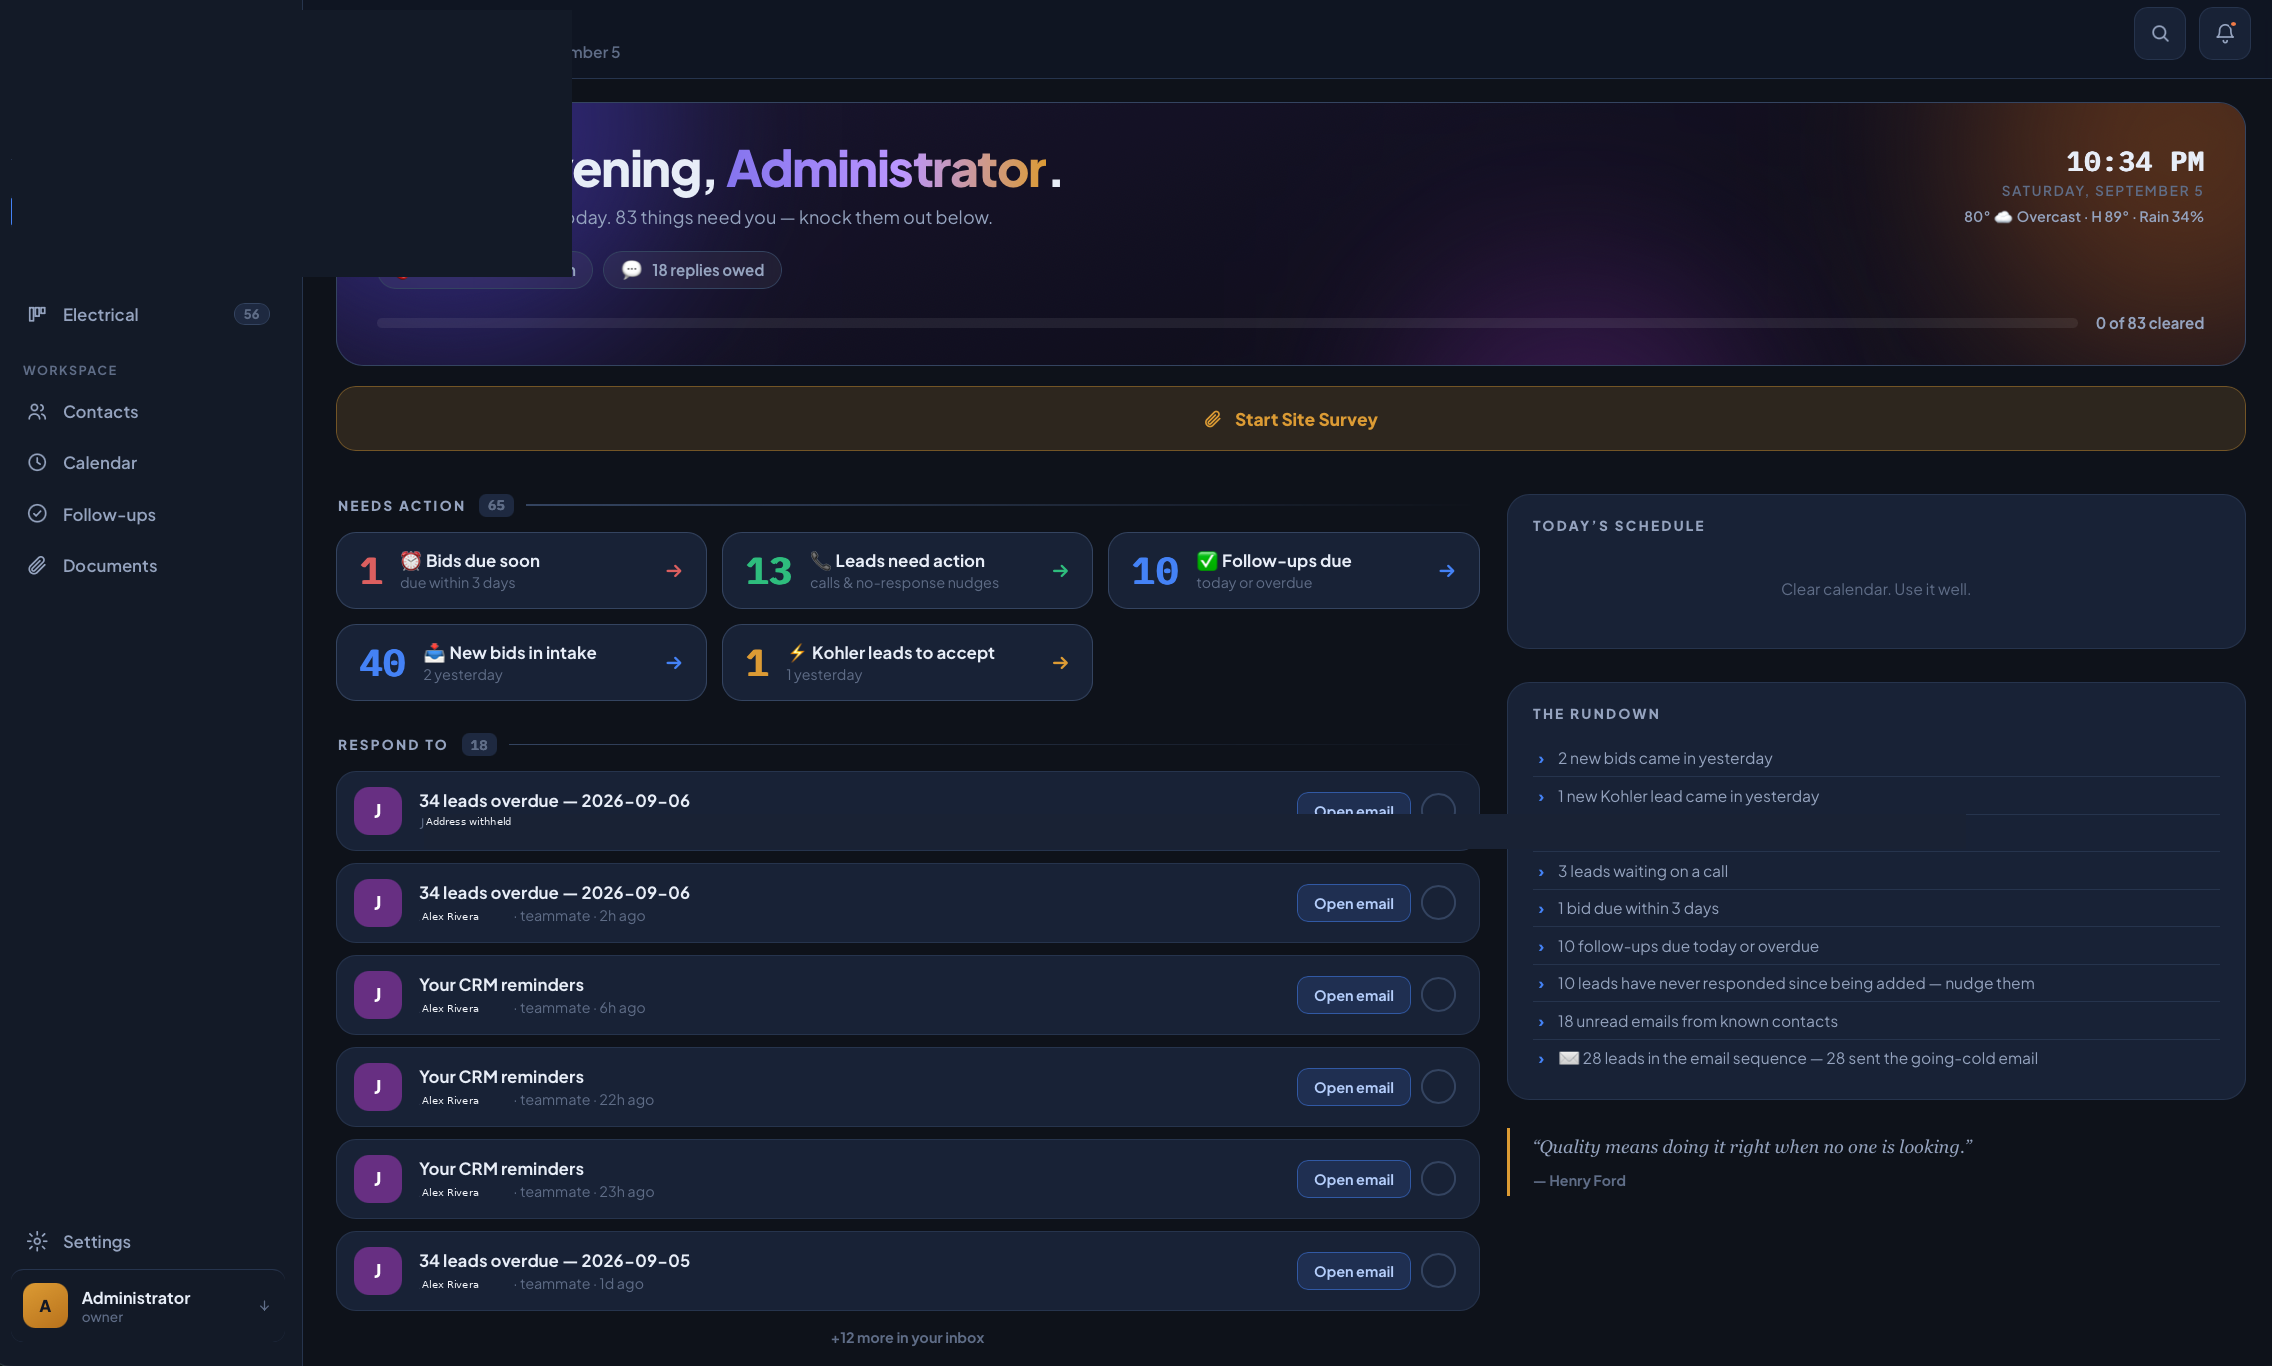
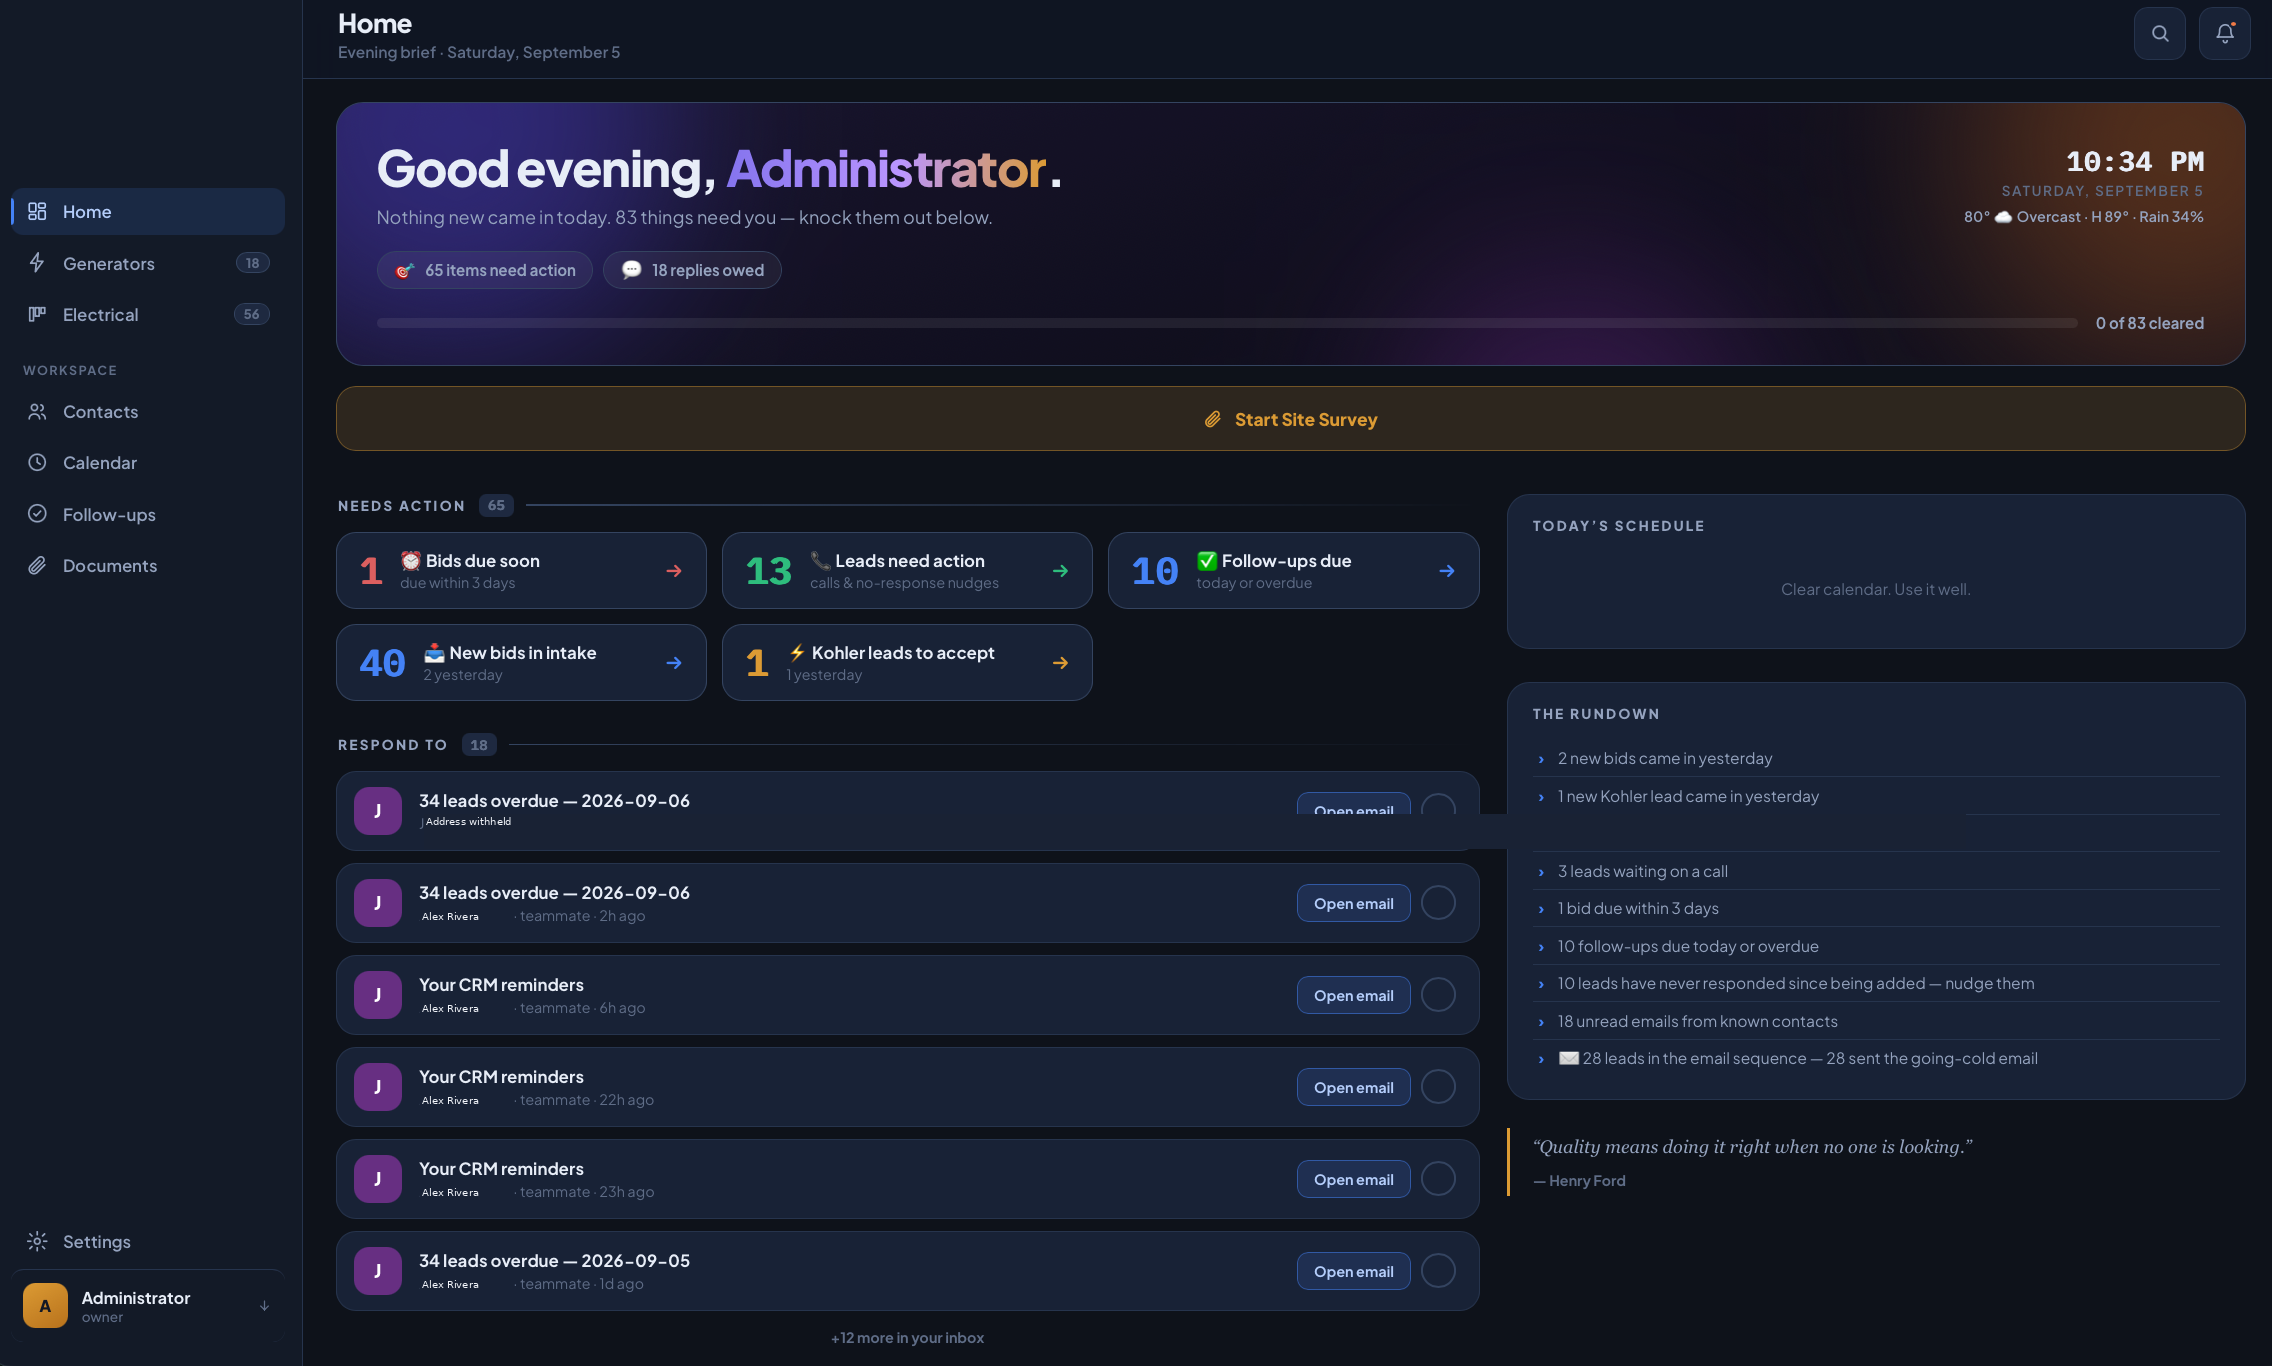
Harden CRM proof scrub and match gallery glow.
Shrink home logo cover, replace remaining pipeline/jobs names and addresses with confidential labels, and give proof gallery cards the same copper glow as the featured case study.

Changed region(s): [[0.0, 0.0, 0.25, 0.2152]]

diff --git a/css/style.css b/css/style.css
@@ -1292,14 +1292,15 @@ article.glass-card:hover {
 .proof-shot {
   margin: 0;
   border-radius: var(--radius-sm);
-  border: 1px solid var(--border-soft);
+  border: 1px solid rgba(255, 107, 26, 0.35);
   background: #070B12;
   overflow: hidden;
+  box-shadow: 0 0 0 1px rgba(255,107,26,0.08), 0 18px 50px rgba(0,0,0,0.45), 0 0 40px rgba(255,107,26,0.08);
   transition: border-color 0.2s ease, box-shadow 0.2s ease;
 }
 .proof-shot:hover {
-  border-color: rgba(46, 230, 255, 0.35);
-  box-shadow: 0 0 28px rgba(46, 230, 255, 0.08);
+  border-color: rgba(255, 107, 26, 0.55);
+  box-shadow: 0 0 0 1px rgba(255,107,26,0.12), 0 18px 50px rgba(0,0,0,0.45), 0 0 52px rgba(255,107,26,0.16);
 }
 .proof-shot img {
   display: block;
